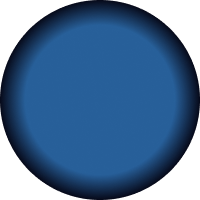
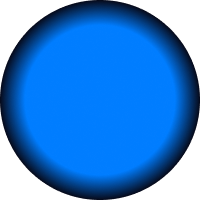
hello

diff --git a/game/display_pong.js b/game/display_pong.js
@@ -48,7 +48,7 @@ playerImg.src = "image/paddel.png";
 playerImg.onload = function () { };
 //Ball image
 var ballImg = new Image();
-ballImg.src = "image/ball.png";
+ballImg.src = "image/newball.png";
 ballImg.onload = function () { };
 var futur_ballImg = new Image();
 futur_ballImg.src = "image/futur_ball.png";
@@ -64,9 +64,27 @@ var ai_target = new Image();
 ai_target.src = "image/IA_target.png";
 ai_target.onload = function () { };
 //Custom
-var crateImg = new Image();
-crateImg.src = "image/crate.png";
-crateImg.onload = function () { };
+var powerupImg = new Image();
+powerupImg.src = "image/powerup.png";
+powerupImg.onload = function () { };
+var obstacleImg = new Image();
+obstacleImg.src = "image/obstacle.png";
+obstacleImg.onload = function () { };
+var meteorImg = new Image();
+meteorImg.src = "image/meteor.png";
+meteorImg.onload = function () { };
+var snakeImg = new Image();
+snakeImg.src = "image/snake.png";
+snakeImg.onload = function () { };
+var portaltop_img = new Image();
+portaltop_img.src = "image/portaltop.png";
+portaltop_img.onload = function () { };
+var portalbottom_img = new Image();
+portalbottom_img.src = "image/portalbottom.png";
+portalbottom_img.onload = function () { };
+var goldbackground_img = new Image();
+goldbackground_img.src = "image/backgroundgold.png";
+goldbackground_img.onload = function () { };
 //Game
 var top_img = new Image();
 top_img.src = "image/top.png";
@@ -77,6 +95,9 @@ bottom_img.onload = function () { };
 var center_img = new Image();
 center_img.src = "image/game_center.png";
 center_img.onload = function () { };
+var background_img = new Image();
+background_img.src = "image/background2.png";
+background_img.onload = function () { };
 ws.onmessage = function (event) {
     var data = JSON.parse(event.data);
     if (data.type === 'state') {
@@ -115,11 +136,15 @@ function draw_image(obj_ball, bsize, img) {
 }
 function draw_web(screen) {
     return __awaiter(this, void 0, void 0, function () {
-        var i, j, msg, msgX, i, _i, _a, obs, _b, _c, obs, _d, _e, obs, _f, _g, obs, _h, _j, obj, _k, _l, hole, _m, _o, obj, imageData, data, i, imageData, data, i;
+        var i, j, msg, msgX, i, _i, _a, obs, _b, _c, obs, w, h, cx, cy, _d, _e, obs, _f, _g, obs, _h, _j, obj, _k, _l, hole, _m, _o, obj, imageData, data, i;
         return __generator(this, function (_p) {
             ctx.clearRect(0, 0, canvas.width, canvas.height);
-            ctx.fillStyle = "#1A1733";
-            ctx.fillRect(0, 0, canvas.width, canvas.height);
+            // ctx.fillStyle = "#1A1733";
+            // ctx.fillRect(0, 0, canvas.width, canvas.height);
+            if (screen.gold_game)
+                ctx.drawImage(goldbackground_img, 0, 0, canvas.width, canvas.height);
+            else
+                ctx.drawImage(background_img, 0, 0, canvas.width, canvas.height);
             if (screen.vision == true && screen.IA == true) {
                 ctx.fillStyle = "#001111";
                 for (i = screen.error_margin; i < WIDTH - (screen.kill_margin_size); i++) {
@@ -143,8 +168,14 @@ function draw_web(screen) {
                 ctx.drawImage(center_img, (WIDTH / 2 - 1) * SCALE_X, i * SCALE_Y, 2 * SCALE_X, 2 * SCALE_Y);
                 // ctx.fillRect((WIDTH/2 - 1) * SCALE_X, i * SCALE_Y, 2 * SCALE_X, 2 * SCALE_Y);
             }
-            ctx.drawImage(top_img, 0, 0, canvas.width, SCALE_Y);
-            ctx.drawImage(bottom_img, 0, (HEIGHT - 1) * SCALE_Y, canvas.width, SCALE_Y);
+            if (screen.portal == false) {
+                ctx.drawImage(top_img, 0, 0, canvas.width, SCALE_Y);
+                ctx.drawImage(bottom_img, 0, (HEIGHT - 1) * SCALE_Y, canvas.width, SCALE_Y);
+            }
+            else {
+                ctx.drawImage(portaltop_img, 0, 0, canvas.width, SCALE_Y);
+                ctx.drawImage(portalbottom_img, 0, (HEIGHT - 1) * SCALE_Y, canvas.width, SCALE_Y);
+            }
             // ctx.fillStyle = "#FFFFFF";
             // if (screen.portal == true)
             // 	ctx.fillStyle = "#FF8800";
@@ -152,21 +183,26 @@ function draw_web(screen) {
             // if (screen.portal == true)
             // 	ctx.fillStyle = "#0088FF";
             // ctx.fillRect(0, (HEIGHT-1) * SCALE_Y, canvas.width, SCALE_Y);
+            // ctx.fillRect(obs.x * SCALE_X - SCALE_X , obs.y * SCALE_Y - SCALE_Y , SCALE_X * 2, SCALE_Y * 2);
             for (_i = 0, _a = screen.obstacle_array; _i < _a.length; _i++) {
                 obs = _a[_i];
-                ctx.fillRect(obs.x * SCALE_X - SCALE_X, obs.y * SCALE_Y - SCALE_Y, SCALE_X * 2, SCALE_Y * 2);
+                ctx.drawImage(obstacleImg, obs.x * SCALE_X - SCALE_X, obs.y * SCALE_Y - SCALE_Y, SCALE_X * 2, SCALE_Y * 2);
             }
             for (_b = 0, _c = screen.meteorites_array; _b < _c.length; _b++) {
                 obs = _c[_b];
-                ctx.fillRect(obs.x * SCALE_X - SCALE_X, obs.y * SCALE_Y - SCALE_Y, SCALE_X * 2, SCALE_Y * 2);
+                w = meteorImg.width / 5;
+                h = meteorImg.height / 5;
+                cx = obs.x * SCALE_X;
+                cy = obs.y * SCALE_Y;
+                ctx.drawImage(meteorImg, cx - w / 2, cy - h / 2, w, h);
             }
             for (_d = 0, _e = screen.snake_array; _d < _e.length; _d++) {
                 obs = _e[_d];
-                ctx.fillRect(obs.x * SCALE_X - SCALE_X, obs.y * SCALE_Y - SCALE_Y, SCALE_X * 2, SCALE_Y * 2);
+                ctx.drawImage(snakeImg, obs.x * SCALE_X - SCALE_X, obs.y * SCALE_Y - SCALE_Y, SCALE_X * 2, SCALE_Y * 2);
             }
             for (_f = 0, _g = screen.box_array; _f < _g.length; _f++) {
                 obs = _g[_f];
-                draw_image(obs, 3, crateImg);
+                draw_image(obs, 3, powerupImg);
             }
             if (screen.vision == true) {
                 for (_h = 0, _j = screen.ball_real_array_futur; _h < _j.length; _h++) {
@@ -204,16 +240,16 @@ function draw_web(screen) {
                 else if (screen.player2_score >= screen.MAX_SCORE)
                     afficherMessage(screen, "Player 2 Wins !!!", 'r');
             }
-            if (screen.gold_game) {
-                imageData = ctx.getImageData(0, 0, canvas.width, canvas.height);
-                data = imageData.data;
-                for (i = 0; i < data.length; i += 4) {
-                    data[i] = 255;
-                    data[i + 1] = (data[i + 1] + 50 > 255) ? 255 : data[i + 1] + 50;
-                    data[i + 2] = 0;
-                }
-                ctx.putImageData(imageData, 0, 0);
-            }
+            // if (screen.gold_game){
+            // 	let imageData = ctx.getImageData(0, 0, canvas.width, canvas.height);
+            // 	let data : Uint8ClampedArray = imageData.data;
+            // 	for (let i = 0; i < data.length; i += 4) {
+            // 		data[i] = 255;
+            // 		data[i + 1] = (data[i + 1] + 50 > 255)? 255 : data[i + 1] + 50;
+            // 		data[i + 2] = 0;
+            // 	}
+            // 	ctx.putImageData(imageData, 0, 0);
+            // }
             if (screen.negative) {
                 imageData = ctx.getImageData(0, 0, canvas.width, canvas.height);
                 data = imageData.data;

diff --git a/game/display_pong.ts b/game/display_pong.ts
@@ -14,7 +14,7 @@ playerImg.onload = function() {};
 
 //Ball image
 const ballImg = new Image();
-ballImg.src = "image/ball.png";
+ballImg.src = "image/newball.png";
 ballImg.onload = function() {};
 const futur_ballImg = new Image();
 futur_ballImg.src = "image/futur_ball.png";
@@ -32,9 +32,29 @@ ai_target.src = "image/IA_target.png";
 ai_target.onload = function() {};
 
 //Custom
-const crateImg = new Image();
-crateImg.src = "image/crate.png";
-crateImg.onload = function() {};
+const powerupImg = new Image();
+powerupImg.src = "image/powerup.png";
+powerupImg.onload = function() {};
+const obstacleImg = new Image();
+obstacleImg.src = "image/obstacle.png";
+obstacleImg.onload = function() {};
+const meteorImg = new Image();
+meteorImg.src = "image/meteor.png";
+meteorImg.onload = function() {};
+const snakeImg = new Image();
+snakeImg.src = "image/snake.png";
+snakeImg.onload = function() {};
+
+const portaltop_img = new Image();
+portaltop_img.src = "image/portaltop.png";
+portaltop_img.onload = function() {};
+const portalbottom_img = new Image();
+portalbottom_img.src = "image/portalbottom.png";
+portalbottom_img.onload = function() {};
+
+const goldbackground_img = new Image();
+goldbackground_img.src = "image/backgroundgold.png";
+goldbackground_img.onload = function() {};
 
 //Game
 const top_img = new Image();
@@ -46,6 +66,10 @@ bottom_img.onload = function() {};
 const center_img = new Image();
 center_img.src = "image/game_center.png";
 center_img.onload = function() {};
+
+const background_img = new Image();
+background_img.src = "image/background2.png";
+background_img.onload = function() {};
 
 ws.onmessage = (event) => {
   const data = JSON.parse(event.data);
@@ -76,8 +100,12 @@ async function draw_image(obj_ball : any, bsize : number, img : HTMLImageElement
 
 async function draw_web(screen : any){
 	ctx.clearRect(0, 0, canvas.width, canvas.height);
-	ctx.fillStyle = "#1A1733";
-	ctx.fillRect(0, 0, canvas.width, canvas.height);
+	// ctx.fillStyle = "#1A1733";
+	// ctx.fillRect(0, 0, canvas.width, canvas.height);
+	if (screen.gold_game)
+		ctx.drawImage(goldbackground_img, 0, 0, canvas.width, canvas.height);
+	else
+		ctx.drawImage(background_img, 0, 0, canvas.width, canvas.height);
 	if (screen.vision == true && screen.IA == true){
 		ctx.fillStyle = "#001111";
 		for (let i = screen.error_margin; i < WIDTH - (screen.kill_margin_size ); i++){
@@ -103,8 +131,13 @@ async function draw_web(screen : any){
 		ctx.drawImage(center_img, (WIDTH/2 - 1) * SCALE_X, i * SCALE_Y, 2 * SCALE_X, 2 * SCALE_Y);
 		// ctx.fillRect((WIDTH/2 - 1) * SCALE_X, i * SCALE_Y, 2 * SCALE_X, 2 * SCALE_Y);
 	}
-	ctx.drawImage(top_img, 0, 0, canvas.width, SCALE_Y);
-	ctx.drawImage(bottom_img, 0, (HEIGHT-1) * SCALE_Y, canvas.width, SCALE_Y);
+	if (screen.portal == false){
+		ctx.drawImage(top_img, 0, 0, canvas.width, SCALE_Y);
+		ctx.drawImage(bottom_img, 0, (HEIGHT-1) * SCALE_Y, canvas.width, SCALE_Y);
+	} else {
+		ctx.drawImage(portaltop_img, 0, 0, canvas.width, SCALE_Y);
+		ctx.drawImage(portalbottom_img, 0, (HEIGHT-1) * SCALE_Y, canvas.width, SCALE_Y);
+	}
 	// ctx.fillStyle = "#FFFFFF";
 	// if (screen.portal == true)
 	// 	ctx.fillStyle = "#FF8800";
@@ -112,15 +145,21 @@ async function draw_web(screen : any){
 	// if (screen.portal == true)
 	// 	ctx.fillStyle = "#0088FF";
 	// ctx.fillRect(0, (HEIGHT-1) * SCALE_Y, canvas.width, SCALE_Y);
+	// ctx.fillRect(obs.x * SCALE_X - SCALE_X , obs.y * SCALE_Y - SCALE_Y , SCALE_X * 2, SCALE_Y * 2);
 	for (let obs of screen.obstacle_array)
-		ctx.fillRect(obs.x * SCALE_X - SCALE_X , obs.y * SCALE_Y - SCALE_Y , SCALE_X * 2, SCALE_Y * 2);
-	for (let obs of screen.meteorites_array)
-		ctx.fillRect(obs.x * SCALE_X - SCALE_X , obs.y * SCALE_Y - SCALE_Y , SCALE_X * 2, SCALE_Y * 2);
+		ctx.drawImage(obstacleImg, obs.x * SCALE_X - SCALE_X , obs.y * SCALE_Y - SCALE_Y , SCALE_X * 2, SCALE_Y * 2);
+	for (let obs of screen.meteorites_array){
+		const w = meteorImg.width / 5;
+		const h = meteorImg.height / 5;
+		const cx = obs.x * SCALE_X;
+		const cy = obs.y * SCALE_Y;
+		ctx.drawImage(meteorImg, cx - w/2, cy - h/2, w, h);
+	}
 	for (let obs of screen.snake_array)
-		ctx.fillRect(obs.x * SCALE_X - SCALE_X , obs.y * SCALE_Y - SCALE_Y , SCALE_X * 2, SCALE_Y * 2);
+				ctx.drawImage(snakeImg, obs.x * SCALE_X - SCALE_X , obs.y * SCALE_Y - SCALE_Y , SCALE_X * 2, SCALE_Y * 2);
 	
 	for (let obs of screen.box_array){
-		draw_image(obs, 3, crateImg);
+		draw_image(obs, 3, powerupImg);
 	}
 	if (screen.vision == true){
 		for (let obj of screen.ball_real_array_futur){
@@ -152,16 +191,6 @@ async function draw_web(screen : any){
 			afficherMessage(screen, "Player 1 Wins !!!", 'l');
 		else if (screen.player2_score >= screen.MAX_SCORE)
 			afficherMessage(screen, "Player 2 Wins !!!", 'r');
-	}
-	if (screen.gold_game){
-		let imageData = ctx.getImageData(0, 0, canvas.width, canvas.height);
-		let data : Uint8ClampedArray = imageData.data;
-		for (let i = 0; i < data.length; i += 4) {
-			data[i] = 255;
-			data[i + 1] = (data[i + 1] + 50 > 255)? 255 : data[i + 1] + 50;
-			data[i + 2] = 0;
-		}
-		ctx.putImageData(imageData, 0, 0);
 	}
 	if (screen.negative){
 		let imageData = ctx.getImageData(0, 0, canvas.width, canvas.height);

diff --git a/pong_web.js b/pong_web.js
@@ -235,12 +235,11 @@ function new_direction_aproximation(obj_ball){
 	return ({newDx, newDy});
 }
 
-function bounce_on_obstacle(obj_ball, obs_array){
-	let hitbox = 1;
+function bounce_on_obstacle(obj_ball, obs_array, hitbox){
 	let remove = [];
 	obs_array.forEach(obs => {
-		if (Math.round(obj_ball.x) - obs.x <= hitbox && Math.round(obj_ball.x) - obs.x >= -hitbox){
-			if (Math.round(obj_ball.y) - obs.y <= hitbox && Math.round(obj_ball.y) - obs.y >= -hitbox){
+		if (obj_ball.x - obs.x <= hitbox && obj_ball.x - obs.x >= -hitbox){
+			if (obj_ball.y - obs.y <= hitbox && obj_ball.y - obs.y >= -hitbox){
 				if (Math.abs(obj_ball.dx) > Math.abs(obj_ball.dy))
 					obj_ball.dx *= -1;
 				else if (Math.abs(obj_ball.dx) < Math.abs(obj_ball.dy))
@@ -262,9 +261,9 @@ function move_obj_ball(obj_ball){
 	obj_ball.y += obj_ball.dy;
 	
 	if (custom_mode){
-		bounce_on_obstacle(obj_ball, obstacle_array);
-		bounce_on_obstacle(obj_ball, meteorites_array);
-		bounce_on_obstacle(obj_ball, snake_array);
+		bounce_on_obstacle(obj_ball, obstacle_array, 1);
+		bounce_on_obstacle(obj_ball, meteorites_array, 2);
+		bounce_on_obstacle(obj_ball, snake_array, 1);
 	}
 	
 	if (obj_ball.y <= ball_size + top_margin_size || obj_ball.y >= HEIGHT - (ball_size + top_margin_size)){
@@ -714,6 +713,8 @@ async function effect1(){ //done to scale
 	if (true_speeding_ball == false){
 		true_speeding_ball = true;
 		setInterval(() => {
+			if (BALL_SPEED > 3)
+				return ;
 			BALL_SPEED += 0.05;
 			PLAYER_SPEED += 0.05;
 		}, 1000);
@@ -991,7 +992,6 @@ function reset_effect(){
 	invisible_player = false;
 	meteorites = false;
 	meteorites_array = [];
-	gold_game = false;
 	vision = false;
 	epic_moment = false;
 	portal = false;
@@ -1021,7 +1021,7 @@ async function custom_mode_func(){
 			let new_box = new Box(Math.round(WIDTH * Math.random()), Math.round(HEIGHT * Math.random()), Math.floor(Math.random() * 23));
 			while (box_array.includes(new_box) == true)
 				new_box = new Box(Math.round(WIDTH * Math.random()), Math.round(HEIGHT * Math.random()), Math.floor(Math.random() * 23));
-			// let nbr = 22;
+			// let nbr = 18;
 			// let new_box = new Box(Math.round(WIDTH * Math.random()), Math.round(HEIGHT * Math.random()), nbr);
 			return (new_box);
 		}
